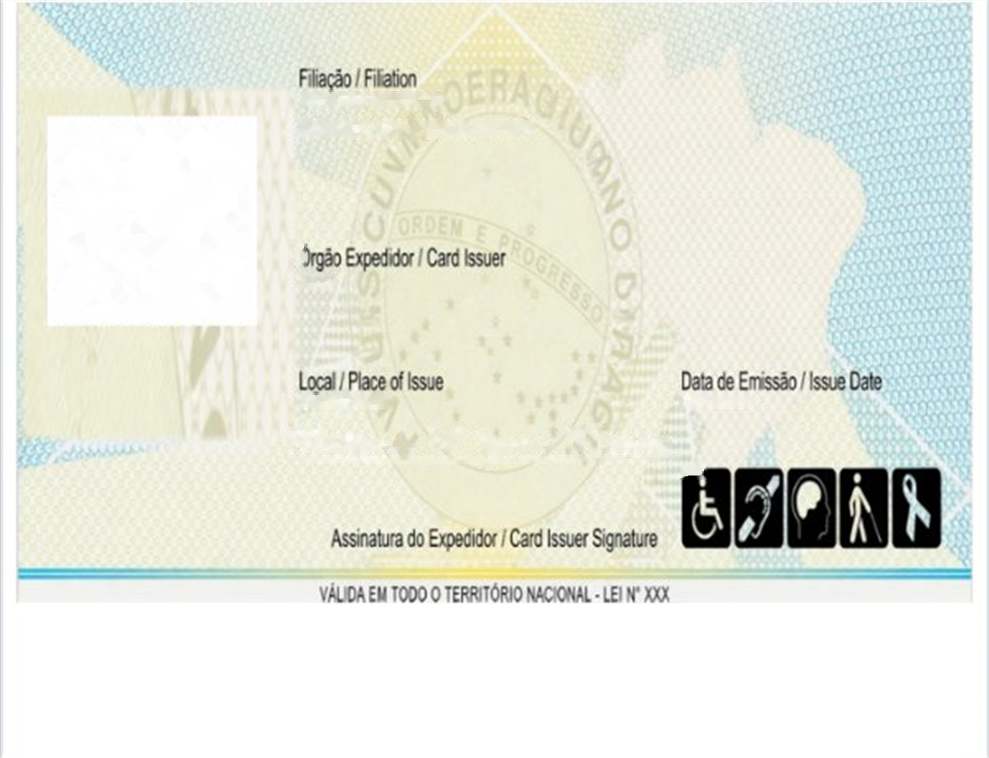
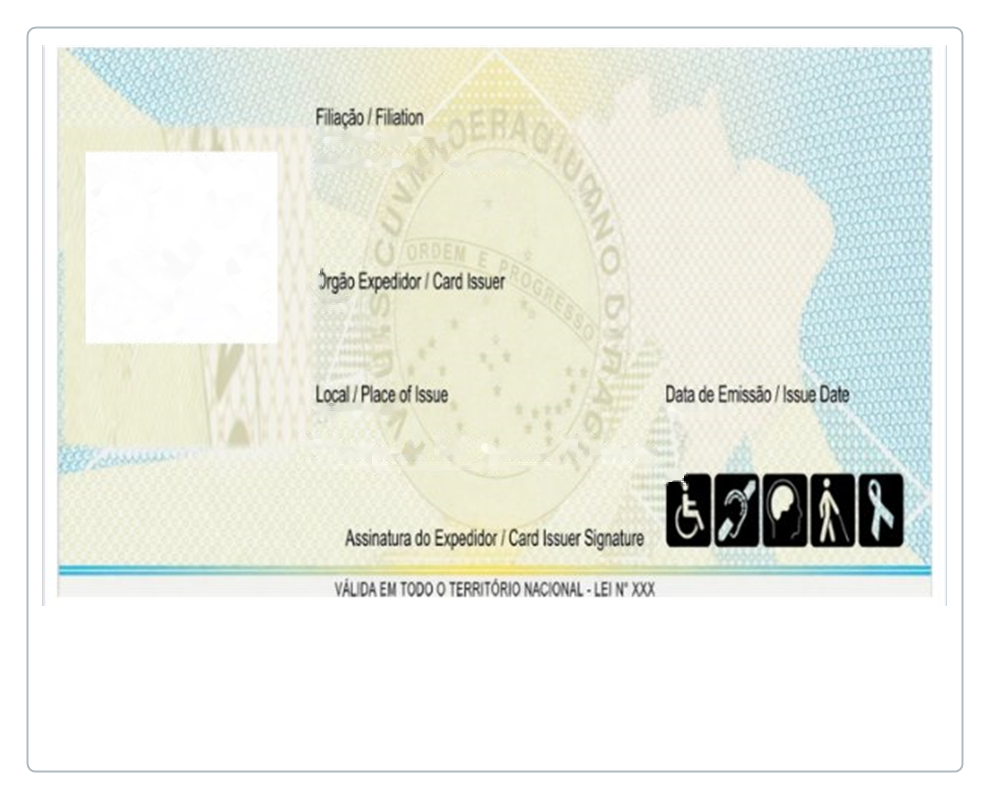
fix(rg): verso com moldura branca igual ao modelo, abaixo da frente

Changed region(s): [[0.0, 0.0, 1.0, 0.971], [0.3033, 0.4551, 0.455, 0.6069]]

diff --git a/criar-rg.html b/criar-rg.html
@@ -530,10 +530,10 @@
         /* Posições do Verso (Escala 989x685) */
         #cvQrBox {
             position: absolute;
-            top: 115px;
-            left: 46px;
-            width: 258px;
-            height: 214px;
+            top: 150px;
+            left: 84px;
+            width: 236px;
+            height: 196px;
             background: #ffffff;
             display: flex;
             align-items: center;
@@ -542,17 +542,17 @@
             padding: 0;
             box-sizing: border-box;
         }
-        #cvQrBox img, #cvQrBox canvas { height: 204px !important; width: 204px !important; }
-        #cvPai { top: 93px; left: 300px; width: 560px; font-size: 15px; font-weight: 700; text-transform: uppercase; }
-        #cvMae { top: 121px; left: 300px; width: 560px; font-size: 15px; font-weight: 700; text-transform: uppercase; }
-        #cvOrgao { top: 275px; left: 300px; width: 200px; font-size: 14px; font-weight: 700; }
-        #cvLocal { top: 396px; left: 300px; width: 300px; font-size: 13.5px; font-weight: 700; text-transform: uppercase; }
-        #cvEmissao { top: 396px; left: 678px; width: 180px; font-size: 13.5px; font-weight: 700; }
+        #cvQrBox img, #cvQrBox canvas { height: 190px !important; width: 190px !important; }
+        #cvPai { top: 130px; left: 316px; width: 560px; font-size: 15px; font-weight: 700; text-transform: uppercase; }
+        #cvMae { top: 157px; left: 316px; width: 560px; font-size: 15px; font-weight: 700; text-transform: uppercase; }
+        #cvOrgao { top: 298px; left: 316px; width: 200px; font-size: 14px; font-weight: 700; }
+        #cvLocal { top: 408px; left: 316px; width: 300px; font-size: 13.5px; font-weight: 700; text-transform: uppercase; }
+        #cvEmissao { top: 408px; left: 662px; width: 180px; font-size: 13.5px; font-weight: 700; }
         #cvSigBox {
             position: absolute;
-            top: 418px;
-            left: 286px;
-            width: 392px;
+            top: 424px;
+            left: 304px;
+            width: 372px;
             height: 48px;
             display: flex;
             align-items: flex-end;
@@ -564,13 +564,13 @@
         #cvSigText { display: none; font-family: 'Homemade Apple', cursive; font-size: 24px; color: #000; font-weight: 600; padding-bottom: 4px; }
         #cvMrz {
             position: absolute;
-            top: 619px;
-            left: 49px;
+            top: 628px;
+            left: 74px;
             width: 900px;
             font-family: 'Courier New', Courier, monospace;
             font-size: 26px;
-            line-height: 34.5px;
-            letter-spacing: 13.8px;
+            line-height: 33.5px;
+            letter-spacing: 12.3px;
             font-weight: 700;
             color: #000000;
             white-space: pre;
@@ -631,7 +631,7 @@
             margin-bottom: -210px;
         }
 
-        #a4CardVersoWrap { margin-bottom: -242px; }
+        #a4CardVersoWrap { margin-bottom: -255px; }
         .a4-footer-info {
             border-top: 1px solid #e2e8f0;
             padding-top: 12px;
@@ -883,7 +883,7 @@
                     </div>
 
                     <!-- ─── 2. PREVIEW: CARTÃO VERSO ULTRA-HD (989px × 685px) ─── -->
-                    <div id="viewVersoContainer" class="card-cin-view" style="display:block; margin-top:20px; height:758px; background-image: url('assets/rg_verso_template_clean.png');">
+                    <div id="viewVersoContainer" class="card-cin-view" style="display:block; margin-top:20px; height:798px; background-image: url('assets/rg_verso_template_clean.png');">
                         <!-- QR Code Oficial -->
                         <div id="cvQrBox">
                             <div id="cvQrInner" style="width:100%; height:100%; display:flex; align-items:center; justify-content:center;"></div>
@@ -1298,24 +1298,24 @@ MENINO<<MELLYSSA<DE<JESUS<<<<<</div>
                 const elVerso = document.getElementById('viewVersoContainer');
 
                 const canvasFrente = await captureElementClean(elFrente, 989, 685);
-                const canvasVerso = await captureElementClean(elVerso, 989, 758);
+                const canvasVerso = await captureElementClean(elVerso, 989, 798);
 
                 const { jsPDF } = window.jspdf;
                 // Cria PDF com medidas exatas proporcionais do cartão em landscape
                 const pdf = new jsPDF({
                     orientation: 'portrait',
                     unit: 'px',
-                    format: [1029, 1543],
+                    format: [1029, 1583],
                     hotfixes: ['px_scaling']
                 });
 
                 // Folha única: frente em cima, verso embaixo
                 pdf.setFillColor(255, 255, 255);
-                pdf.rect(0, 0, 1029, 1543, 'F');
+                pdf.rect(0, 0, 1029, 1583, 'F');
                 const imgFrente = canvasFrente.toDataURL('image/jpeg', 0.98);
                 pdf.addImage(imgFrente, 'JPEG', 20, 20, 989, 685);
                 const imgVerso = canvasVerso.toDataURL('image/jpeg', 0.98);
-                pdf.addImage(imgVerso, 'JPEG', 20, 765, 989, 758);
+                pdf.addImage(imgVerso, 'JPEG', 20, 765, 989, 798);
 
                 const cpfClean = (document.getElementById('inpCpf').value || 'CIN').replace(/\D/g, '');
                 const fileName = `CIN_Cartao_${cpfClean}.pdf`;
